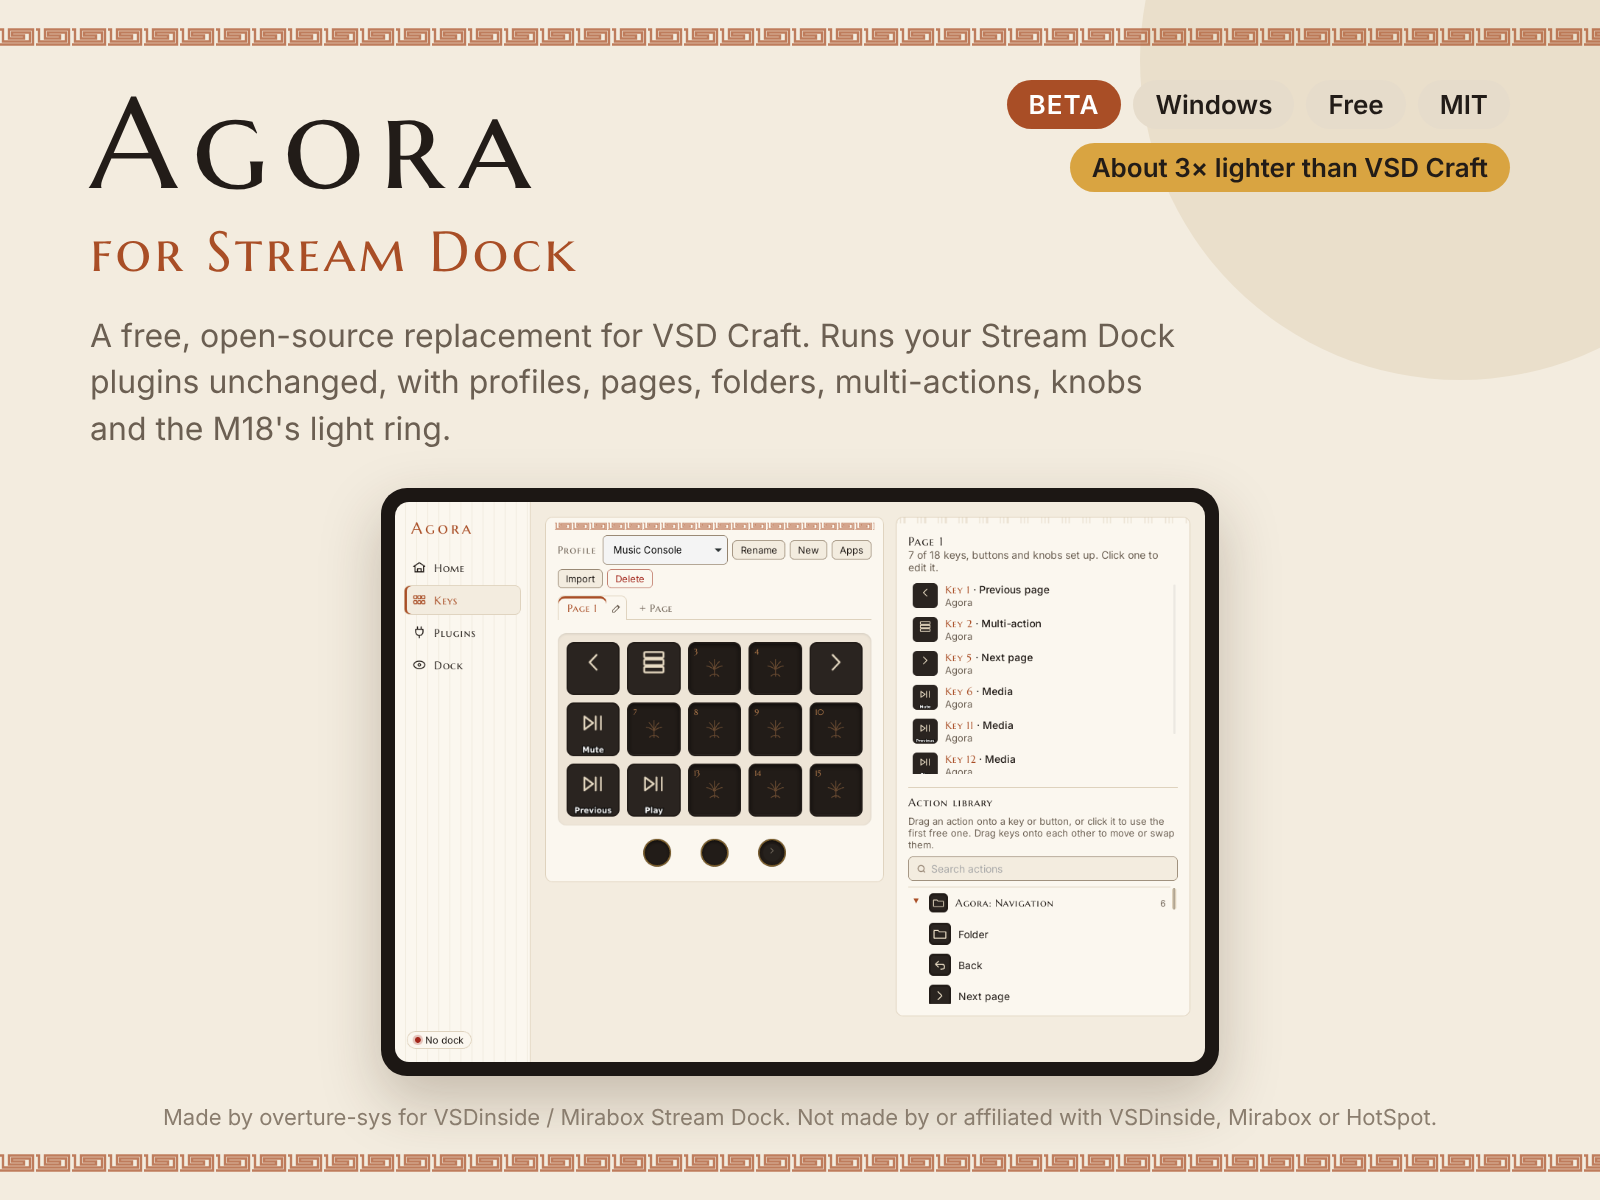
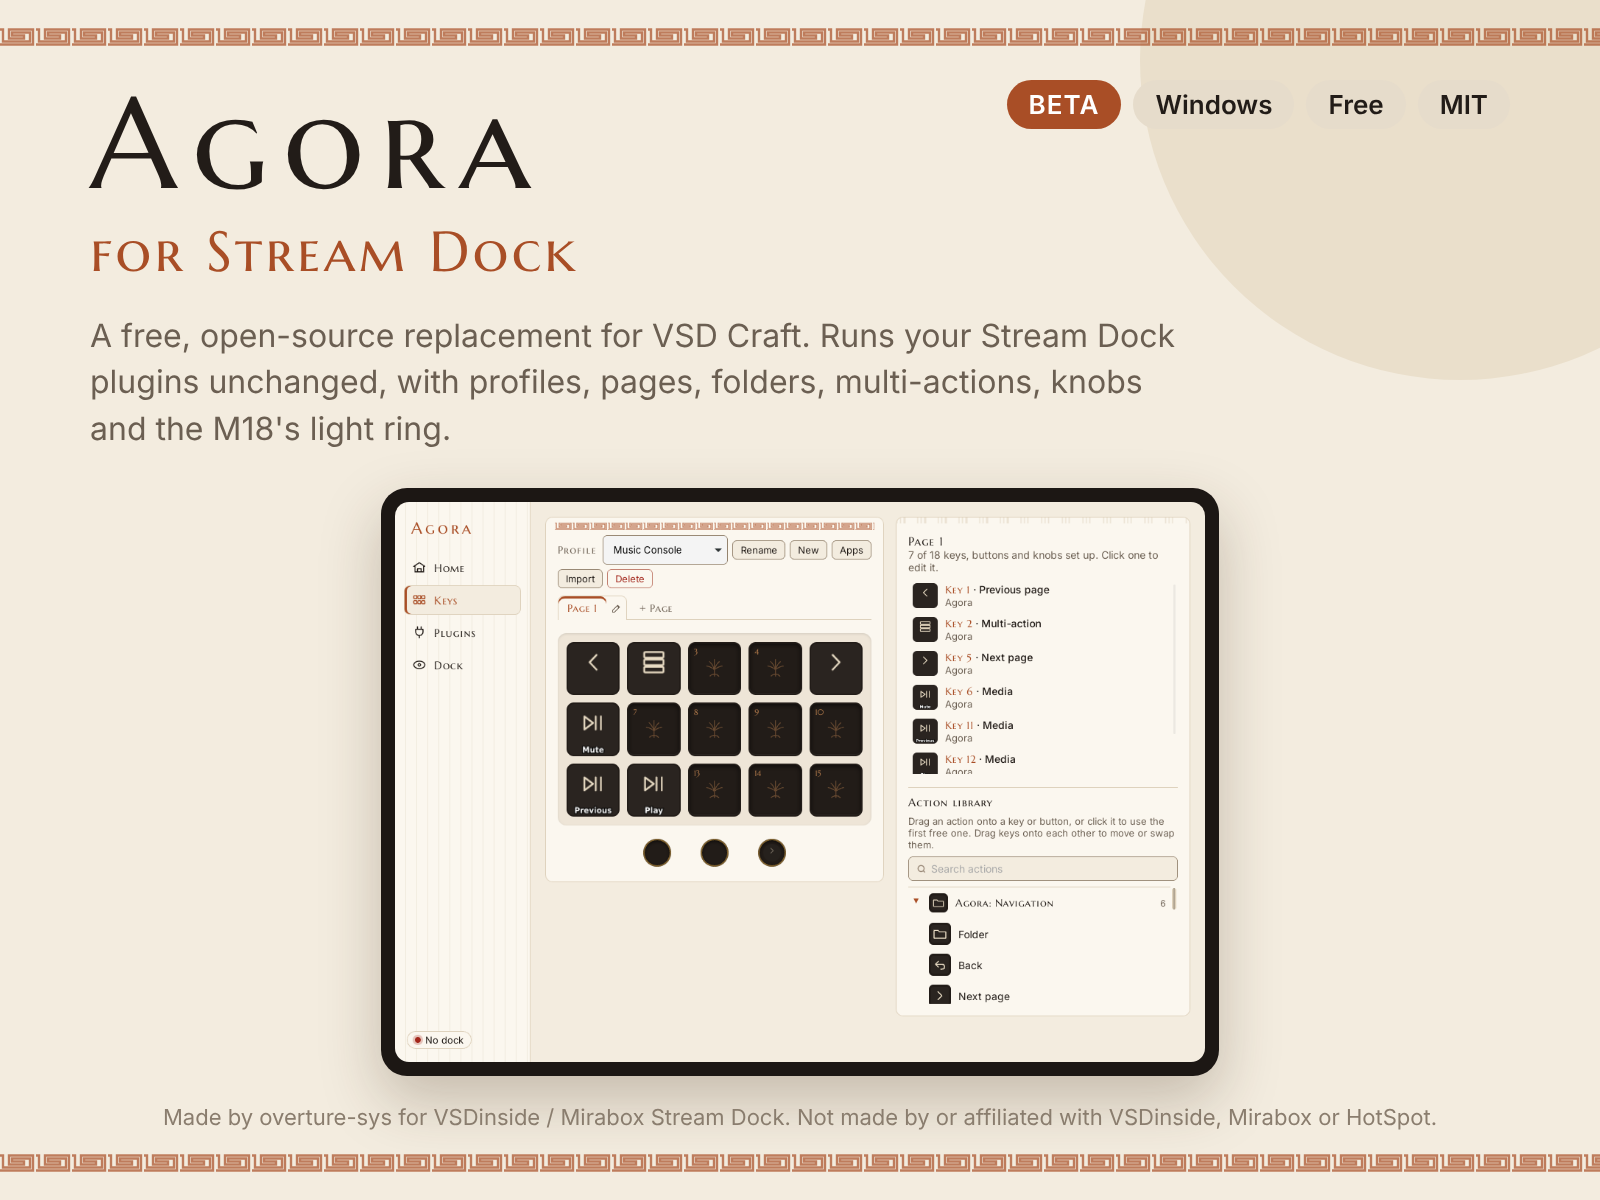
Remove the "3x lighter" claim until more testing
Drop the resource comparison with VSD Craft from the README and the
cover and preview images.

Claude-Session: https://claude.ai/code/session_01JMnRy8WJdj4q87vDJ4htPL

Changed region(s): [[0.6562, 0.0925, 0.9688, 0.185]]

diff --git a/README.md b/README.md
@@ -2,15 +2,13 @@
 
 ![Agora for Stream Dock](assets/agora-preview-16x9.png)
 
-A free, open-source (MIT) app for VSDinside / Mirabox Stream Dock devices: a lighter, faster replacement for VSD Craft that runs your existing Stream Dock plugins unchanged.
+A free, open-source (MIT) app for VSDinside / Mirabox Stream Dock devices: a replacement for VSD Craft that runs your existing Stream Dock plugins unchanged.
 
 > **Beta. Tested on the Stream Dock M18 only.** The other models below are built from public notes and haven't been tried on real hardware yet. If you have one, please try it and open an issue saying what works and what doesn't.
 >
 > Not made by or affiliated with VSDinside, Mirabox or HotSpot.
 
 If Agora is useful to you, you can support it on [Ko-fi](https://ko-fi.com/overturesys).
-
-"About 3× lighter" comes from one idle test on a Stream Dock M18 (2026-10-31): Agora and its window used 394 MB of memory, VSD Craft and its browser processes 1,242 MB, before plugins.
 
 ## Install (Windows 10 or 11)
 1. Download `Agora-<version>-setup.exe` from the [releases page](https://gitlab.com/overture-group1/agora/-/releases).
